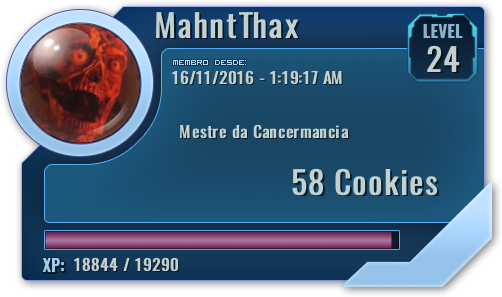
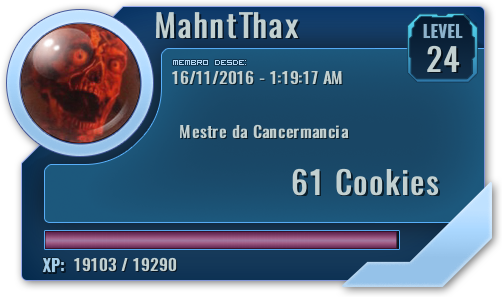
lib redir

Changed region(s): [[0.5677, 0.5758, 0.8964, 0.6667], [0.1494, 0.8485, 0.3586, 0.9394], [0.7769, 0.7576, 0.8068, 0.8485]]

diff --git a/core/index.js b/core/index.js
@@ -13,6 +13,7 @@ var gear = require('./gearbox.js');
 
 const prefix = "+";
 
+
 var counter = 0
 
 
@@ -79,9 +80,10 @@ bot.on("message", message => {
 
   let args = message.content.split(" ").slice(1);
    try{
+        delete require.cache[require.resolve(`../points.json`)];
        let commandFile = require(`./commands/${command}.js`);
 
-    commandFile.run(bot, message, args, userData, caller);
+    commandFile.run(bot, message, args, userData, caller, gear, points);
 
  }catch(err){
      console.log(err)
@@ -110,14 +112,7 @@ bot.on("message", message => {
     }
     var caller = gear.checkment(message).username // Checar Caller
         // POINTS.JSON ---------------------------------------------------
-    if (message.content.startsWith(prefix + "personaltxt")) {
-        userData.persotext = message.content.substr(13)
-        message.reply(`Seu texto pessoal mudou para:
 
-*` + message.content.substr(13) + `*
-
-Digite \`+profile\` para visualizar ele em seu Profile Card~`)
-    }
     //
     //LEVEL UP CHECKER
     //-----------------------------------------------------
@@ -226,10 +221,7 @@ Digite \`+profile\` para visualizar ele em seu Profile Card~`)
     //
     //Avatar Fetcher
     //-----------------------------------------------------
-    fs.writeFile('../points.json', JSON.stringify(points), (err) => {
-        console.log("JSON write event on " + caller + "'s activity -------------\n")
-        if (err) console.log("JSON ERROR  on " + caller + "'s activity -------------\n" + err)
-    });
+  gear.writePoints(points,caller)
 
 
     // Admin Checker

diff --git a/core/commands/give.js b/core/commands/give.js
@@ -1,16 +1,18 @@
 var paths = require("../paths.js");
-var gear = require("../gearbox.js");
 const fs = require("fs");
 
-exports.run = (bot, message, args, userData, caller) => {
+
+
+exports.run = (bot, message, args, userData, caller, gear, points) => {
         console.log("------------give by" + caller)
         var stuff=message.content.split(' ')
         if (stuff.lenght <3){
             message.reply("Ordem inválida")
             return;
         }
+    console.log(stuff[1])
         if (gear.checkCookies(stuff[1],message.author)){
-            message.reply("Ordem inválida")
+            message.reply("Sem Cookies suficientes")
             return;
         }
 
@@ -25,6 +27,6 @@ exports.run = (bot, message, args, userData, caller) => {
                 message.delete(1000)
             })
 
-
+gear.writePoints(points,caller)
 
     }

diff --git a/core/commands/profile.js b/core/commands/profile.js
@@ -1,10 +1,9 @@
 var paths = require("../paths.js");
 const fs = require("fs");
 const Jimp = require("jimp");
-var gear = require('../gearbox.js');
-let points = JSON.parse(fs.readFileSync('../points.json', 'utf8'));
 
-exports.run = (bot, message, args, userData, caller) => {
+
+exports.run = (bot, message, args, userData, caller, gear, points) => {
 
        // var caller = message.author.username
         console.log("PROFILE VIEW INVOKED by " + caller + "-------------\n")
@@ -70,10 +69,11 @@ exports.run = (bot, message, args, userData, caller) => {
                     });
                 });
             });
-        }, 500);
+        }, 200);
         setTimeout(function () {
             message.channel.sendFile(`${paths.CARDS}${caller}.png`)
-        }, 500);
+        }, 2500);
+
     };
 
 

diff --git a/core/commands/betflip.js b/core/commands/betflip.js
@@ -1,9 +1,9 @@
 var paths = require("../paths.js");
 var gear = require("../gearbox.js");
 const fs = require("fs");
-let points = JSON.parse(fs.readFileSync('../points.json', 'utf8'));
 
-exports.run = (bot, message, args, userData, caller) => {
+
+exports.run = (bot, message, args, userData, caller, gear, points) => {
         if (gear.checkCookies(3, userData) == false) {
             message.reply(" você não tem cookies suficientes. Você precisa pelo menos **3** :cookie:");
             return;
@@ -40,4 +40,5 @@ exports.run = (bot, message, args, userData, caller) => {
         else {
             message.channel.sendFile(paths.BUILD + ros, ros, "Putz! " + res + "! Você perdeu...")
         }
+    gear.writePoints(points,caller)
     }

diff --git a/core/commands/rule34.js b/core/commands/rule34.js
@@ -1,11 +1,11 @@
 const fs = require("fs");
 const getter = require("booru-getter");
-var gear = require('../gearbox.js');
-let points = JSON.parse(fs.readFileSync('../points.json', 'utf8'));
 
-exports.run = (bot, message, args, userData, caller) => {
-    let userData = points[message.author.id];
-    var caller = gear.gear.checkment(message).username
+
+
+exports.run = (bot, message, args, userData, caller, gear, points) => {
+
+
 
 
         if (gear.checkCookies(5, userData) == false) {
@@ -25,5 +25,6 @@ exports.run = (bot, message, args, userData, caller) => {
                 message.reply("http:" + url);
             }
         })
+        gear.writePoints(points,caller)
 
 }

diff --git a/core/commands/drop.js b/core/commands/drop.js
@@ -1,10 +1,10 @@
 var paths = require("../paths.js");
 var gear = require("../gearbox.js");
 const fs = require("fs");
-let points = JSON.parse(fs.readFileSync('../points.json', 'utf8'));
 
 
-exports.run = (bot, message, args, userData, caller) => {
+
+exports.run = (bot, message, args, userData, caller, gear, points) => {
         console.log("------------DROP by" + caller)
             // message.guild.defaultChannel.sendMessage()
         if (userData.cookies >= 1) {
@@ -18,4 +18,5 @@ exports.run = (bot, message, args, userData, caller) => {
         else {
             message.reply("Você não tem cookies pra dropar...");
         }
+    gear.writePoints(points,caller)
     }

diff --git a/core/commands/safe.js b/core/commands/safe.js
@@ -1,13 +1,13 @@
 const fs = require("fs");
 const getter = require("booru-getter");
-var gear = require('../gearbox.js');
-let points = JSON.parse(fs.readFileSync('../points.json', 'utf8'));
 
-exports.run = (bot, message, args, userData, caller) => {
 
-    var caller = gear.gear.checkment(message).username
+
+exports.run = (bot, message, args, userData, caller, gear, points) => {
+
+
         console.log("SAFEBOORU INVOKED by " + caller + "-------------\n")
-        console.log(1)
+        console.log(1) ;
         let query = message.content.split(" ");
         !query[1] ? query[1] = "1girl" : query[1] = query[1];
         getter.getRandom(query[1], (url) => {

diff --git a/core/gearbox.js b/core/gearbox.js
@@ -1,10 +1,17 @@
 var paths = require("./paths.js");
 const Jimp = require("jimp");
+const fs = require("fs");
 
 module.exports = {
     drops : 0,
     vacuum : [],
     ongoing : false,
+    writePoints: function writePoints(points,caller){
+          fs.writeFile('../points.json', JSON.stringify(points), (err) => {
+        console.log("JSON write event on " + caller + "'s activity -------------\n")
+        if (err) console.log("JSON ERROR  on " + caller + "'s activity -------------\n" + err)
+    });
+    },
     checkAdm: function checkAdm(origin, target) {
         if (origin.guild.member(target).roles.exists("name", "ADM")) {
             return "ADM";

diff --git a/core/commands/personaltxt.js b/core/commands/personaltxt.js
@@ -1,10 +1,8 @@
 const fs = require("fs");
-var gear = require('../gearbox.js');
 
-let points = JSON.parse(fs.readFileSync('../points.json', 'utf8'));
 
-exports.run = (bot, message, args, userData, caller) => {
-let userData = points[message.author.id];
+
+exports.run = (bot, message, args, userData, caller, gear, points) => {
 
         userData.persotext = message.content.substr(13)
         message.reply(`Seu texto pessoal mudou para:
@@ -12,5 +10,6 @@ let userData = points[message.author.id];
 *` + message.content.substr(13) + `*
 
 Digite \`+profile\` para visualizar ele em seu Profile Card~`)
+        gear.writePoints(points,caller)
     }
 

diff --git a/core/commands/blackjack.js b/core/commands/blackjack.js
@@ -1,9 +1,9 @@
 var paths = require("../paths.js");
 var gear = require("../gearbox.js");
 const fs = require("fs");
-let points = JSON.parse(fs.readFileSync('../points.json', 'utf8'));
 
-exports.run = (bot, message, args, userData, caller) => {
+
+exports.run = (bot, message, args, userData, caller, gear, points) => {
         console.log(gear.ongoing)
         if (gear.ongoing) {
             message.reply("você já está jogando comigo. Primeiro termine esse.")
@@ -276,4 +276,5 @@ exports.run = (bot, message, args, userData, caller) => {
                 }, 500);
             });
         }, 300);
+    gear.writePoints(points,caller)
     }

diff --git a/core/commands/pick.js b/core/commands/pick.js
@@ -1,7 +1,7 @@
 const fs = require("fs");
 var gear = require("../gearbox.js");
 
-exports.run = (bot, message, args, userData, caller) => {
+exports.run = (bot, message, args, userData, caller, gear, points) => {
 
 
         //aaa.message.delete()
@@ -31,6 +31,7 @@ exports.run = (bot, message, args, userData, caller) => {
             }
             //message.channel.sendMessage("No Cookie");
         }
+    gear.writePoints(points,caller)
     };
 
 

diff --git a/core/commands/cookierank.js b/core/commands/cookierank.js
@@ -1,8 +1,8 @@
 const arraySort = require('array-sort')
 const fs = require("fs");
-let points = JSON.parse(fs.readFileSync('../points.json', 'utf8'));
 
-exports.run = (bot, message, args, userData, caller) => {
+
+exports.run = (bot, message, args, userData, caller, gear, points) => {
         console.log("RANK COOK VIEW INVOKED by " + caller + "-------------\n")
         var rankItem = []
         var ranked = []
